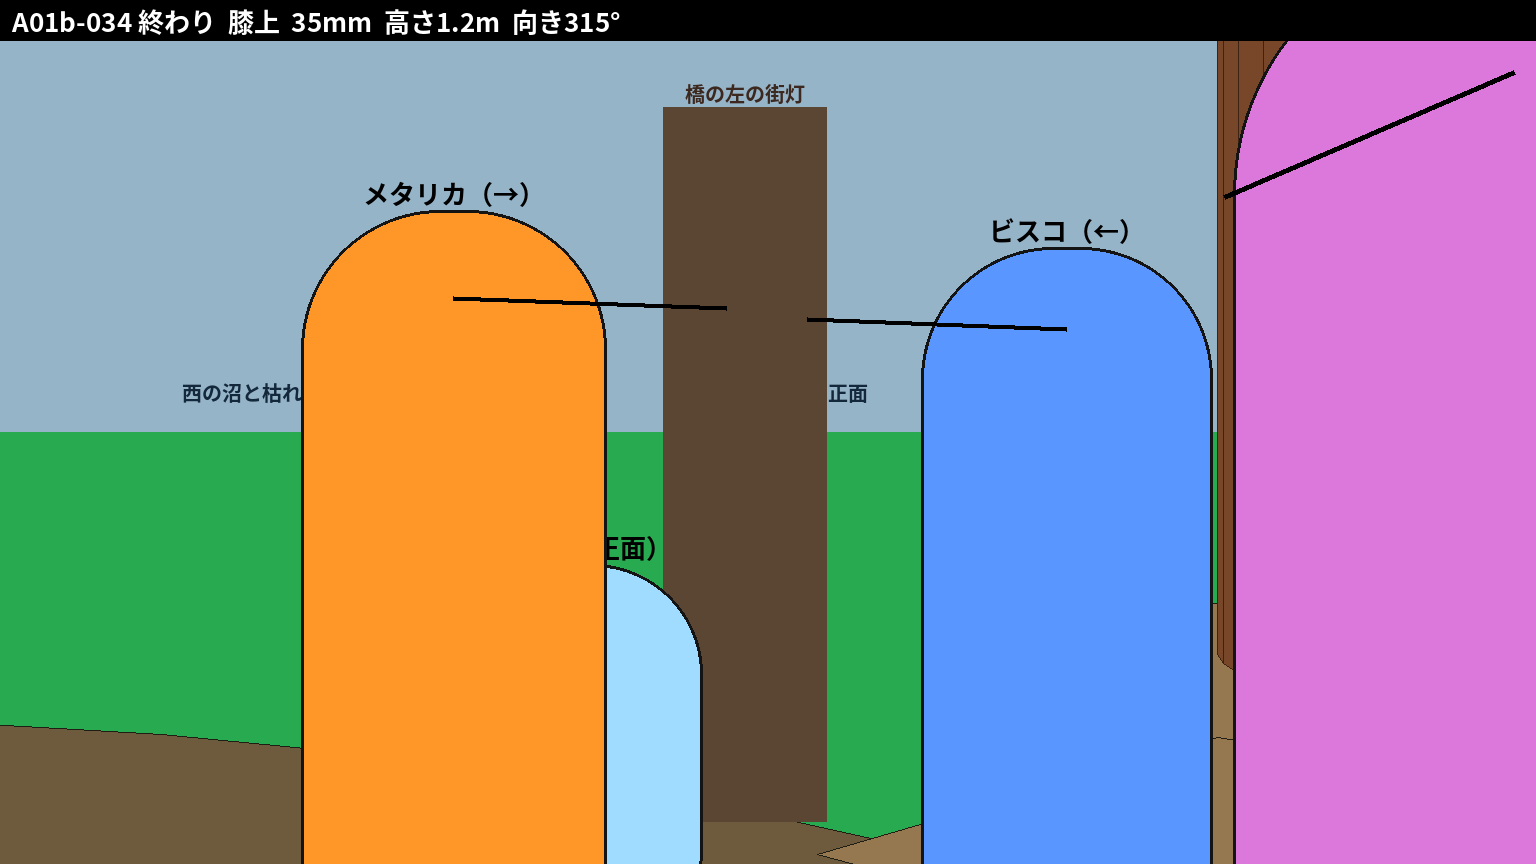
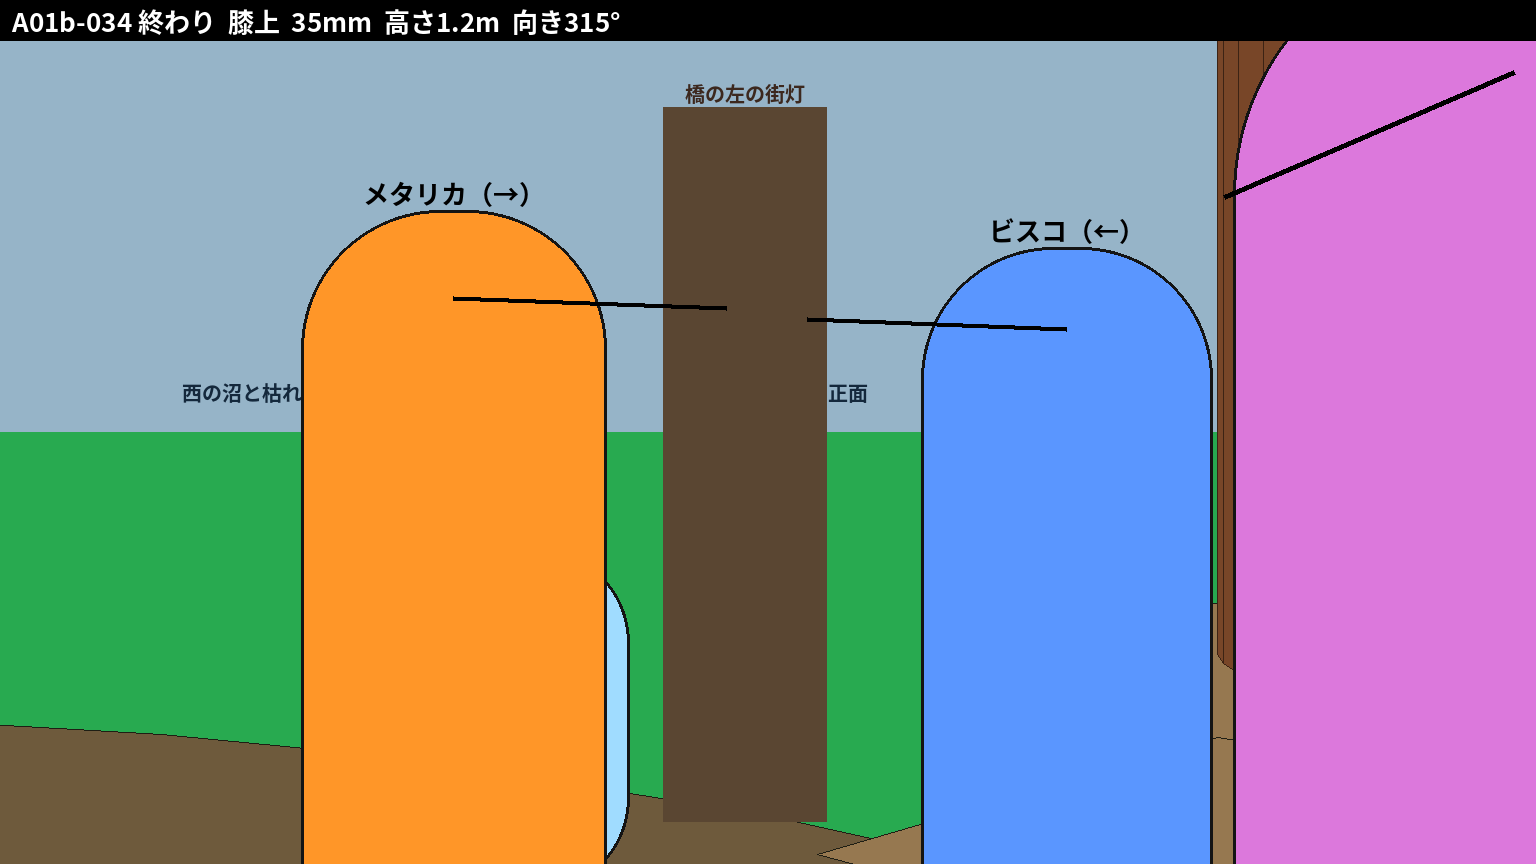
A01b 仕上げの試し: 062・034 を朝の光に描き直す編集、012 のアルレッキーノ1人（3クレジット、ユーザー承認）。百騎兵の立ち位置の手直し
Claude-Session: https://claude.ai/code/session_01RnKzYGnJDUZJgyqbqAgwgW

Changed region(s): [[0.375, 0.625, 0.4688, 1.0]]

diff --git a/tools/composite.py b/tools/composite.py
@@ -56,6 +56,7 @@ def main():
     ap.add_argument("--plate", required=True)
     ap.add_argument("--out", required=True)
     ap.add_argument("--blur_far", type=float, default=0.0, help="この距離(m)より遠い人物をぼかす")
+    ap.add_argument("--from_h", type=float, default=0.0, help="セルが膝上などのとき、セルの下端の高さ(m)")
     a = ap.parse_args()
     st = staging.Stage(a.scene_dir)
     W, H = 1920, 1080
@@ -67,8 +68,11 @@ def main():
         cel = Image.open(pathlib.Path(a.cels) / f"{a.cut}_{o['who']}.png").convert("RGBA")
         bb = cel.getchannel("A").point(lambda v: 255 if v > 128 else 0).getbbox()
         cel = cel.crop(bb)
-        k = o["height"] * EXTRA[o["who"]] / cel.height
+        h = st.lay["people"][o["who"]]["h"]
+        part = (h - a.from_h) / h
+        k = o["height"] * part * EXTRA[o["who"]] / cel.height
         cel = cel.resize((max(1, round(cel.width * k)), max(1, round(cel.height * k))), Image.LANCZOS)
+        o["foot"] -= o["height"] * a.from_h / h
         if a.blur_far and o["z"] > a.blur_far:
             cel = cel.filter(ImageFilter.GaussianBlur(3))
         plate.alpha_composite(cel, (round(o["x"] - cel.width / 2), round(o["foot"] - cel.height)))

diff --git a/episodes/A/scenes/A01b/gen/staging_report.md b/episodes/A/scenes/A01b/gen/staging_report.md
@@ -43,17 +43,17 @@
 | 036 | 胸上 | 土の広場・85mm・254° | メ（中央・斜め前（画面右向き）・目線 画面左・手前寄り） | メ（中央・斜め前（画面左向き）・目線 画面左・手前寄り） | 西の沼と枯れ木〔枯れ木〕 |
 | 037 | 寄り | 土の広場・135mm・333° | ビ（中央・斜め前（画面左向き）・目線 画面左・手前寄り） | （同じ） | 橋と玄関と屋敷の正面〔用意画像 bg_01〕 |
 | 038 | 寄り | 土の広場・135mm・333° | ビ（中央・斜め前（画面左向き）・目線 画面左・手前寄り） | （同じ） | 橋と玄関と屋敷の正面〔用意画像 bg_01〕 |
-| 039 | 寄り | 土の広場・低め・135mm・268° | 百（中央・斜め前（画面左向き）・目線 画面左・手前寄り） | （同じ） | 西の沼と枯れ木〔枯れ木〕 |
+| 039 | 寄り | 土の広場・低め・135mm・268° | 百（右・斜め前（画面左向き）・目線 画面左・手前寄り） | （同じ） | 西の沼と枯れ木〔枯れ木〕 |
 | 040 | インサート | インサート | 招待状の地図。テッタラ砂漠の先に尖った山（アズ・ブロッケン山）、山頂に印 | | |
 | 041 | 胸上 | 土の広場・135mm・259° | ア（中央・正面・目線 画面右・奥寄り） | （同じ） | 西の沼と枯れ木〔枯れ木〕 |
 | 042 | 胸上 | 土の広場・85mm・333° | ビ（中央・斜め前（画面左向き）・目線 画面左・手前寄り） | （同じ） | 橋と玄関と屋敷の正面〔用意画像 bg_01〕 |
 | 043 | 胸上 | 土の広場・85mm・254° | メ（中央・斜め前（画面左向き）・目線 画面右・手前寄り） | メ（中央・斜め前（画面右向き）・目線 画面右・手前寄り） | 西の沼と枯れ木〔枯れ木〕 |
 | 044 | 寄り | 土の広場・135mm・259° | ア（中央・正面・目線 カメラの方） | （同じ） | 西の沼と枯れ木〔枯れ木〕 |
 | 045 | 胸上 | 土の広場・135mm・259° | ア（中央・正面・目線 画面右・奥寄り） | （同じ） | 西の沼と枯れ木〔枯れ木〕 |
-| 046 | 引き | 土の広場・35mm・351° | 百（中央・正面・目線 画面右・手前寄り）、メ（中央・斜め後ろ（画面右向き）・目線 画面右・手前寄り）、ビ（中央・斜め前（画面左向き）・目線 カメラの方）、ア（中央・横顔（画面右向き）） | （同じ） | 橋と玄関と屋敷の正面〔用意画像 bg_01〕 |
+| 046 | 引き | 土の広場・35mm・351° | 百（左・正面・目線 画面右・手前寄り）、メ（中央・斜め後ろ（画面右向き）・目線 画面右・手前寄り）、ビ（中央・斜め前（画面左向き）・目線 カメラの方）、ア（中央・横顔（画面右向き）） | （同じ） | 橋と玄関と屋敷の正面〔用意画像 bg_01〕 |
 | 047 | 大寄り | 土の広場・85mm・254° | メ（中央・斜め前（画面右向き）・目線 画面左・手前寄り） | （同じ） | 西の沼と枯れ木〔枯れ木〕 |
-| 048 | 全身 | 土の広場・28mm・302° | メ（中央・横顔（画面右向き）・目線 画面左）、ア（中央・斜め前（画面右向き））、百（中央・正面）、ビ（右・横顔（画面左向き）） | メ（中央・横顔（画面右向き）・目線 画面右）、百（右・斜め前（画面左向き）） | 西の沼と枯れ木〔枯れ木〕／橋と玄関と屋敷の正面〔用意画像 bg_01〕 |
-| 049 | 膝上 | 土の広場・地面すれすれ・35mm・291° | メ（中央・横顔（画面右向き）・目線 画面右） | （同じ） | 西の沼と枯れ木〔枯れ木〕／橋と玄関と屋敷の正面〔用意画像 bg_01〕 |
+| 048 | 全身 | 土の広場・28mm・302° | メ（中央・横顔（画面右向き）・目線 画面左）、ア（中央・斜め前（画面右向き））、百（中央・正面）、ビ（右・横顔（画面左向き）） | メ（中央・横顔（画面右向き）・目線 画面右）、百（右・正面） | 西の沼と枯れ木〔枯れ木〕／橋と玄関と屋敷の正面〔用意画像 bg_01〕 |
+| 049 | 膝上 | 土の広場・地面すれすれ・50mm・291° | メ（中央・横顔（画面右向き）・目線 画面右） | （同じ） | 西の沼と枯れ木〔枯れ木〕／橋と玄関と屋敷の正面〔用意画像 bg_01〕 |
 | 050 | 胸上 | 土の広場・135mm・350° | ア（中央・斜め前（画面左向き）・目線 画面左・手前寄り） | ア（中央・斜め前（画面左向き）・目線 画面左・手前寄り） | 橋と玄関と屋敷の正面〔用意画像 bg_01〕 |
 | 051 | 胸上 | 土の広場・135mm・350° | ア（中央・斜め前（画面左向き）・目線 画面左） | （同じ） | 橋と玄関と屋敷の正面〔用意画像 bg_01〕 |
 | 052 | 寄り | 土の広場・135mm・320° | ビ（中央・斜め前（画面左向き）・目線 画面左・手前寄り） | ビ（中央・正面・目線 画面右・手前寄り） | 橋と玄関と屋敷の正面〔用意画像 bg_01〕 |
@@ -66,7 +66,7 @@
 | 059 | 寄り | 土の広場・85mm・275° | メ（中央・正面・目線 画面右・手前寄り） | （同じ） | 西の沼と枯れ木〔枯れ木〕 |
 | 060 | 胸上 | 土の広場・85mm・320° | ビ（中央・斜め前（画面左向き）・目線 画面左・手前寄り） | （同じ） | 橋と玄関と屋敷の正面〔用意画像 bg_01〕 |
 | 061 | 寄り | 土の広場・85mm・306° | メ（中央・正面・目線 画面右・奥寄り） | （同じ） | 西の沼と枯れ木〔枯れ木〕／橋と玄関と屋敷の正面〔用意画像 bg_01〕 |
-| 062 | 胸上 | 土の広場・35mm・351° | 百（中央・正面）、メ（中央・斜め前（画面右向き）・目線 画面右）、ビ（中央・正面・目線 画面左・手前寄り）、ア（右・正面） | （同じ） | 橋と玄関と屋敷の正面〔用意画像 bg_01〕 |
+| 062 | 胸上 | 土の広場・35mm・356° | 百（左・正面）、メ（中央・斜め前（画面右向き）・目線 画面右）、ビ（中央・正面・目線 カメラの方）、ア（中央・正面） | （同じ） | 橋と玄関と屋敷の正面〔用意画像 bg_01〕 |
 | 063 | 大寄り | 土の広場・135mm・321° | ビ（中央・斜め前（画面左向き）・目線 画面左・手前寄り） | （同じ） | 橋と玄関と屋敷の正面〔用意画像 bg_01〕 |
 | 064 | 胸上 | 土の広場・135mm・350° | ア（中央・斜め前（画面左向き）・目線 画面左） | ア（中央・横顔（画面左向き）・目線 画面左） | 橋と玄関と屋敷の正面〔用意画像 bg_01〕 |
 | 065 | 寄り | 土の広場・85mm・110° | メ（左・背中・目線 画面左・奥寄り） | （同じ） | 東の沼（遊歩道は広場の北東の端から出る）〔沼の水面〕／広場とそのまわりの沼〔用意画像 bg_02〕 |
@@ -74,7 +74,7 @@
 | 067 | 全身 | 土の広場・28mm・283° | メ（左・正面・目線 画面右・手前寄り）、百（中央・斜め前（画面左向き）・目線 画面左・手前寄り）、ビ（右・斜め前（画面左向き）・目線 画面左）、ア（右・背中・目線 画面左） | メ（左・横顔（画面右向き）・目線 画面右・奥寄り）、百（中央・斜め前（画面左向き）・目線 画面左・手前寄り）、ビ（右・斜め前（画面左向き）・目線 画面左）、ア（右・背中・目線 画面左） | 西の沼と枯れ木〔枯れ木〕／橋と玄関と屋敷の正面〔用意画像 bg_01〕 |
 | 068 | 寄り | 土の広場・低め・85mm・303° | 百（中央・斜め前（画面左向き）・目線 画面左・手前寄り） | （同じ） | 西の沼と枯れ木〔枯れ木〕／橋と玄関と屋敷の正面〔用意画像 bg_01〕 |
 | 069 | 胸上 | 土の広場・135mm・350° | ア（中央・横顔（画面左向き）・目線 画面左） | ア（中央・横顔（画面左向き）・目線 画面左） | 橋と玄関と屋敷の正面〔用意画像 bg_01〕 |
-| 070 | 引き | 土の広場・35mm・322° | 百（左・斜め前（画面左向き）・目線 画面左・手前寄り）、ビ（中央・斜め前（画面左向き）・目線 画面左・手前寄り）、ア（右・斜め後ろ（画面左向き）・目線 画面左・奥寄り） | 百（左・斜め前（画面右向き）・目線 画面右・手前寄り）、ビ（中央・斜め前（画面右向き）・目線 画面右・手前寄り）、ア（右・斜め後ろ（画面左向き）・目線 画面左・奥寄り） | 西の沼と枯れ木〔枯れ木〕／橋と玄関と屋敷の正面〔用意画像 bg_01〕 |
+| 070 | 引き | 土の広場・35mm・322° | 百（左・正面・目線 カメラの方）、ビ（中央・斜め前（画面左向き）・目線 画面左・手前寄り）、ア（右・斜め後ろ（画面左向き）・目線 画面左・奥寄り） | 百（左・斜め前（画面右向き）・目線 画面右・手前寄り）、ビ（中央・斜め前（画面右向き）・目線 画面右・手前寄り）、ア（右・斜め後ろ（画面左向き）・目線 画面左・奥寄り） | 西の沼と枯れ木〔枯れ木〕／橋と玄関と屋敷の正面〔用意画像 bg_01〕 |
 | 071 | 寄り | 土の広場・135mm・234° | メ（中央・横顔（画面右向き）・目線 画面右・手前寄り） | メ（中央・斜め前（画面右向き）・目線 画面右・手前寄り） | 広場とそのまわりの沼〔用意画像 bg_02〕／西の沼と枯れ木〔枯れ木〕 |
 | 072 | 全身 | 土の広場・地面すれすれ・35mm・276° | メ（中央・横顔（画面右向き）・目線 画面右） | メ（中央・正面・目線 画面右） | 西の沼と枯れ木〔枯れ木〕／橋と玄関と屋敷の正面〔用意画像 bg_01〕 |
 | 073 | 大引き | 土の広場・高い位置・24mm・0° | 百（中央・横顔（画面右向き）・目線 画面右・手前寄り）、メ（中央・横顔（画面右向き）・目線 画面右）、ビ（中央・横顔（画面右向き）・目線 カメラの方）、ア（中央・横顔（画面左向き）・目線 画面左・手前寄り） | （同じ） | 橋と玄関と屋敷の正面〔用意画像 bg_01〕 |

diff --git a/docs/log.md b/docs/log.md
@@ -24,6 +24,7 @@
 
 ## ログ
 
+- 2026-09-27: 仕上げの試し（ユーザー承認、3クレジット、残り1,102.75）。百騎兵をメタリカの陰から外すため、030 で百騎兵がビスコの左へ少し下がる動きを足し、062 のカメラを少し左へ（確認は全部0）。重ねた絵を朝の光で描き直す編集: 062 は4人とも設定画どおり・位置どおり・朝で良い。034 は朝の光は良いがビスコが消えた（不合格）。012 はアルレッキーノを1人で作り直し（手を口に当てない、設定画どおりで合格）、重ねた絵は夜の土台のまま。指示文は gen/stills_plan_fix3.yaml。
 - 2026-09-27: 対策の試し（ユーザー承認「3つを組み合わせてやり直しましょう」、9クレジット）。設定画を向きごとに切り抜いた（characters/<人物>/views、生成ではない）。012 は切り抜きを添えて作り直し（顔は良くなったが、耳打ちの手が手前に大きく入るのは同じ）。034・062 は人物を1人ずつ透明な背景で8枚作り（8枚とも設定画どおり）、tools/composite.py で略図と同じ計算の位置・大きさで重ねた。重ねる土台は用意画像 bg_01（夜）のままなので、朝の光にそろえる仕上げ（1枚ずつ編集）と、百騎兵がメタリカの陰に隠れる立ち位置の手直しが残る。
 - 2026-09-27: 静止画10枚の試し（001・002・003・008・009・012・016・021・034・062、GPT Image 2.5、10クレジット、残り1,114.75。ユーザー承認）。003 は1回目が混雑（429）で送信されず送り直した。私の点検: 7枚は保留（配置どおり。001 は語りかけと大きさが直った）、3枚は不合格（012 アルレッキーノの手と頭がまた崩れた、034 アルレッキーノが別人になりメタリカとビスコの左右が逆、062 手前の人物がビスコにすり替わり奥の人物が重複）。4人の画と、アルレッキーノの寄りで崩れやすい。対策の案をユーザーに出した（反映待ち）。
 - 2026-09-27: 作り直しのユーザー判定: 001 不合格（百騎兵が大きい。メタリカがカメラ目線なのはおかしい、三人に語りかけているはず）、012 不合格（横顔も手もおかしい）、065 合格（許容範囲）。直し: メタリカは基本的に三人に向かって語りかけ、腕で沼を示す（演説の区間の向きとカメラを変えた。メタリカの寄りは三人の側から撮り背景は bg_02、三人の寄りはメタリカの側から撮り背景は bg_01）。指示文に身長（百騎兵は腰の高さ）と、目線の相手の名前を入れた。012 はアルレッキーノを斜め前から撮る。残り70カットの計画 gen/stills_plan_all.yaml（70クレジット、承認待ち）。
